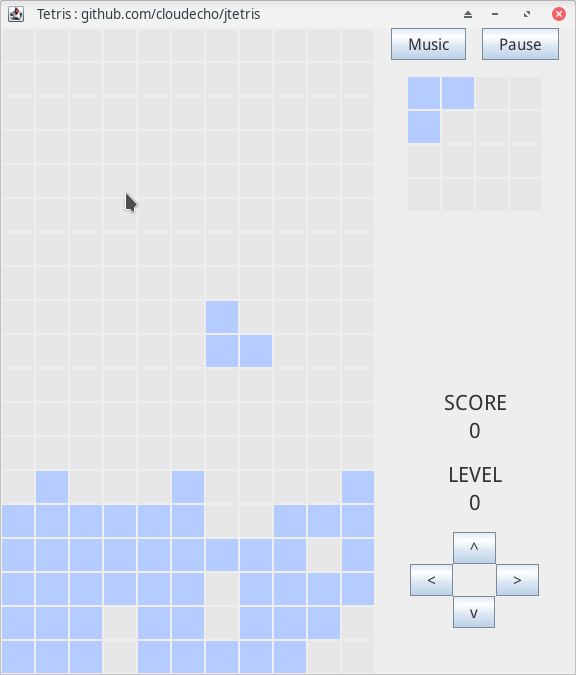
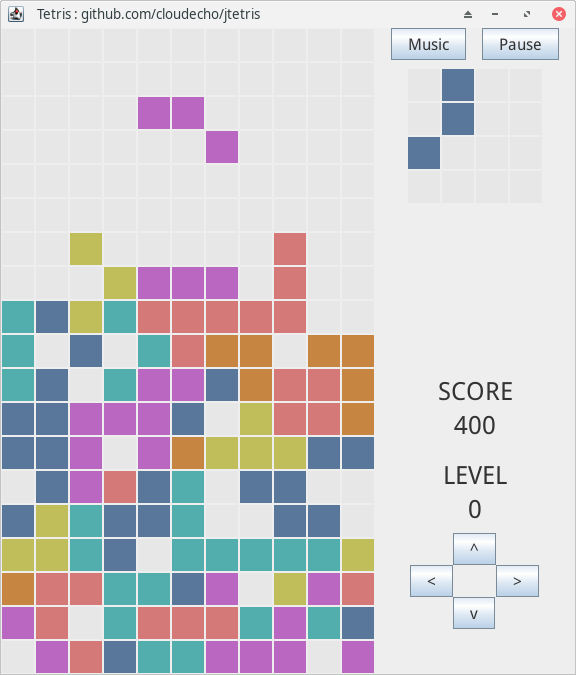
colorful shapes

diff --git a/src/main/java/com/github/cloudecho/jtetris/Gui.java b/src/main/java/com/github/cloudecho/jtetris/Gui.java
@@ -10,11 +10,8 @@ import java.awt.event.KeyEvent;
 class Gui extends JFrame {
     private static final long serialVersionUID = 1L;
     public static final int UNIT_SIZE = 32;
-    public static final Color COLOR = new Color(180, 204, 255);
-    public static final Color BG_COLOR = new Color(0xe7, 0xe7, 0xe7);
-    public static final Color WK_COLOR = Color.GREEN;
     public static final Font FONT = new Font(Font.MONOSPACED, Font.PLAIN, UNIT_SIZE / 2);
-    public static final Font FONT2 = new Font(Font.MONOSPACED, Font.PLAIN, 2 * UNIT_SIZE / 3);
+    public static final Font FONT2 = new Font(Font.MONOSPACED, Font.PLAIN, 4 * UNIT_SIZE / 5);
 
     private Label[][] matrix;
     private Label[][] matrixNext;
@@ -125,7 +122,7 @@ class Gui extends JFrame {
     void reset() {
         for (int i = 0; i < Tetris.ROW; ++i) {
             for (int j = 0; j < Tetris.COL; ++j) {
-                this.matrix[i][j].setBackground(BG_COLOR);
+                this.matrix[i][j].setBackground(Colors.BG_COLOR);
             }
         }
 
@@ -135,19 +132,19 @@ class Gui extends JFrame {
     }
 
     void showShapeNext(Shape nextShape) {
-        this.drawShapeNext(nextShape, COLOR);
+        this.drawShapeNext(nextShape, nextShape.color());
     }
 
     void eraseShapeNext(Shape nextShape) {
-        this.drawShapeNext(nextShape, BG_COLOR);
+        this.drawShapeNext(nextShape, Colors.BG_COLOR);
     }
 
     void showShape(Shape currShape) {
-        this.drawShape(currShape, COLOR);
+        this.drawShape(currShape, currShape.color());
     }
 
     void eraseShape(Shape currShape) {
-        this.drawShape(currShape, BG_COLOR);
+        this.drawShape(currShape, Colors.BG_COLOR);
     }
 
     private void drawShape(Shape currShape, Color color) {
@@ -179,21 +176,21 @@ class Gui extends JFrame {
     void wink(int whichRow, int time) {
         for (int k = 0; k < time; ++k) {
             for (int i = 0; i < Tetris.COL; ++i) {
-                this.matrix[whichRow][i].setBackground(BG_COLOR);
+                this.matrix[whichRow][i].setBackground(Colors.BG_COLOR);
             }
             Tetris.sleep(100);
 
             for (int i = 0; i < Tetris.COL; ++i) {
-                this.matrix[whichRow][i].setBackground(WK_COLOR);
+                this.matrix[whichRow][i].setBackground(Colors.WK_COLOR);
             }
             Tetris.sleep(100);
         }
     }
 
-    void flushColor(boolean[][] model, int rowBegin, int rowEnd) {
+    void flushColor(byte[][] model, int rowBegin, int rowEnd) {
         for (int i = rowBegin; i <= rowEnd; ++i) {
             for (int j = 0; j < Tetris.COL; ++j) {
-                this.matrix[i][j].setBackground(model[i][j] ? COLOR : BG_COLOR);
+                this.matrix[i][j].setBackground(Colors.colorOf(model[i][j]));
             }
         }
     }

diff --git a/src/main/java/com/github/cloudecho/jtetris/Tetris.java b/src/main/java/com/github/cloudecho/jtetris/Tetris.java
@@ -13,7 +13,7 @@ public class Tetris implements Runnable {
     static final int STATE_RUNNING = 2;
     static final int STATE_PAUSED = 3;
 
-    private final boolean[][] model = new boolean[ROW][COL];
+    private final byte[][] model = new byte[ROW][COL];
     private int level; // start from 0
     private int lines;
     private int score;
@@ -34,7 +34,7 @@ public class Tetris implements Runnable {
     private void init() {
         for (int i = 0; i < ROW; ++i) {
             for (int j = 0; j < COL; ++j) {
-                this.model[i][j] = false;
+                this.model[i][j] = 0;
             }
         }
 
@@ -95,7 +95,7 @@ public class Tetris implements Runnable {
 
     private void drift() {
         // copy 0-th column
-        boolean[] col0 = new boolean[ROW - this.rowBegin];
+        byte[] col0 = new byte[ROW - this.rowBegin];
         for (int i = this.rowBegin; i < ROW; ++i) {
             col0[i - this.rowBegin] = this.model[i][0];
         }
@@ -144,7 +144,7 @@ public class Tetris implements Runnable {
 
             for (int i = shape.x; i <= shape.x2; ++i) {
                 for (int j = shape.y; j <= shape.y2; ++j) {
-                    if (oShape[i - shape.x][j - shape.y] && this.model[i][j]) {
+                    if (oShape[i - shape.x][j - shape.y] && this.model[i][j] > 0) {
                         return false;
                     }
                 }
@@ -156,12 +156,12 @@ public class Tetris implements Runnable {
     }
 
     private synchronized void updateModel() {
-        boolean[][] shape = this.currShape.getShape();
+        boolean[][] oShape = this.currShape.getShape();
 
         for (int i = this.currShape.x; i <= this.currShape.x2; ++i) {
             for (int j = this.currShape.y; j <= this.currShape.y2; ++j) {
-                if (shape[i - this.currShape.x][j - this.currShape.y]) {
-                    this.model[i][j] = shape[i - this.currShape.x][j - this.currShape.y];
+                if (oShape[i - this.currShape.x][j - this.currShape.y]) {
+                    this.model[i][j] = this.currShape.colorId;
                 }
             }
         }
@@ -276,7 +276,7 @@ public class Tetris implements Runnable {
             boolean bAdd = true;
 
             for (int j = 0; j < COL; ++j) {
-                if (!this.model[i][j]) {
+                if (0 == this.model[i][j]) {
                     bAdd = false;
                     break;
                 }
@@ -302,7 +302,7 @@ public class Tetris implements Runnable {
         }
 
         for (int j = 0; j < COL; ++j) {
-            this.model[this.rowBegin][j] = false;
+            this.model[this.rowBegin][j] = 0;
         }
 
         gui.flushColor(this.model, rowBegin, rowEnd);

diff --git a/src/main/java/com/github/cloudecho/jtetris/Shape.java b/src/main/java/com/github/cloudecho/jtetris/Shape.java
@@ -1,11 +1,14 @@
 
 package com.github.cloudecho.jtetris;
 
+import java.awt.*;
+
 /**
  * Shape with position
  */
 class Shape {
     private final int id;
+    public final byte colorId;
     public int x; // top
     public int y; // left
     public int x2; // top + height
@@ -165,17 +168,19 @@ class Shape {
     public static final int RANK = 4;
 
     public Shape(int id) {
+        this(id, Colors.randomId(), 0, Tetris.COL / 2 - 1);
+    }
+
+    public Shape(int id, byte colorId, int x, int y) {
         this.id = id;
-        this.x = 0; // top
-        this.y = Tetris.COL / 2 - 1; // left
+        this.colorId = colorId;
+        this.x = x; // top
+        this.y = y; // left
         this.computeXY2();
     }
 
-    public Shape(int id, int x, int y) {
-        this.id = id;
-        this.x = x;
-        this.y = y;
-        this.computeXY2();
+    public Color color() {
+        return Colors.colorOf(this.colorId);
     }
 
     /**
@@ -338,7 +343,7 @@ class Shape {
                 --yL;
         }
 
-        return new Shape(id, xL, yL);
+        return new Shape(id, this.colorId, xL, yL);
     }
 
     public Shape tryMove(int direction) {
@@ -360,6 +365,6 @@ class Shape {
                 ++yL;
         }
 
-        return new Shape(id, xL, yL);
+        return new Shape(id, this.colorId, xL, yL);
     }
 }

diff --git a/src/main/java/com/github/cloudecho/jtetris/Colors.java b/src/main/java/com/github/cloudecho/jtetris/Colors.java
@@ -1,0 +1,43 @@
+package com.github.cloudecho.jtetris;
+
+import java.awt.*;
+
+public class Colors {
+    public static final Color BG_COLOR = new Color(0xe7, 0xe7, 0xe7);
+    public static final Color WK_COLOR = Color.DARK_GRAY;
+
+    private static final Color[] COLORS = new Color[]{
+            BG_COLOR,
+            new Color(82, 173, 173),
+            new Color(186, 103, 194),
+            new Color(192, 190, 91, 255),
+            new Color(88, 119, 155),
+            new Color(213, 120, 120),
+            new Color(199, 133, 66),
+    };
+
+    private Colors() {
+    }
+
+    /**
+     * A random color id.
+     *
+     * @return color id, excludes 0 (BG_COLOR)
+     */
+    public static byte randomId() {
+        return (byte) (1 + (COLORS.length - 1) * Math.random());
+    }
+
+    /**
+     * Get {@code Color} by id.
+     *
+     * @param id color id, starts from 0
+     * @return A {@code Color} object
+     */
+    public static Color colorOf(byte id) {
+        if (id < 0 || id > COLORS.length - 1) {
+            throw new IllegalArgumentException("id out of bounds");
+        }
+        return COLORS[id];
+    }
+}

diff --git a/src/main/java/com/github/cloudecho/jtetris/MPanel.java b/src/main/java/com/github/cloudecho/jtetris/MPanel.java
@@ -10,7 +10,7 @@ import javax.swing.JPanel;
  */
 class MPanel extends JPanel {
     private static final long serialVersionUID = 1L;
-    public static final Color DEFAULT_COLOR = Gui.BG_COLOR;
+    public static final Color DEFAULT_COLOR = Colors.BG_COLOR;
     public static final Dimension DEFAULT_SIZE = new Dimension(Gui.UNIT_SIZE, Gui.UNIT_SIZE);
     public Label[][] matrix;
     private final int row;
